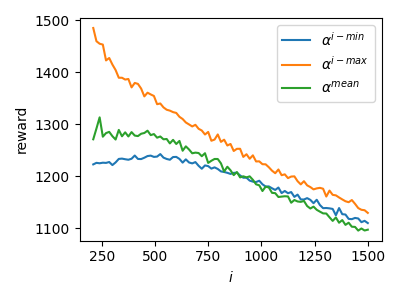
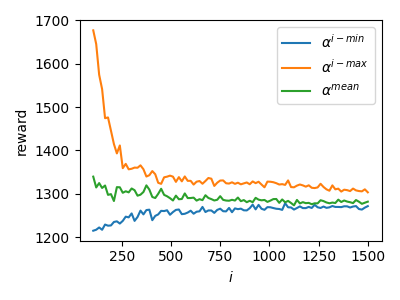
Update to my experiments' conclusion (+2 corrections)

diff --git a/QEST23/qest23.tex b/QEST23/qest23.tex
@@ -639,7 +639,7 @@ is based on considering the immediate cost of the next transition only.
 \centering
 \includegraphics[scale=0.5]{./Figures/minmaxmean2d+err.png}
 \caption{Cost values (y-axis) at selected states learned from partitions of granularities 5,10,20,50, (x-axis)
-and the $\alphaimin, \alphaimax, \alphamean$ adversaries\label{fig:minmax2d}}
+and the $\alphaimin, \alphaimax, \alphamean$ adversaries.\label{fig:minmax2d}}
 \end{figure}
 
 \begin{example}
@@ -668,7 +668,7 @@ runs, and the error bars indicate tha absolute minimum and maximum values obtain
 that there is very little variation from granularity $i=20$ onwards.
 
 Note that
-according Theorem~\ref{prop:narrowbounds} all  costfunctions converge to
+according Theorem~\ref{prop:narrowbounds} all  cost functions converge to
 the true cost $\expected(\costlambda,s)$ as $i\rightarrow\infty$.
 However, since $\alphaimin, \alphaimax$ only are approximations to the true min and max
 adversaries, there is no strict guarantee that the $\alphaimin$ and $\alphaimax$ costs always provide
@@ -806,52 +806,54 @@ for the $(0.9,0.9)$ region).
 
 
 \section{U{\small{PPAAL}} S{\small{TRATEGO}} Case Studies}
-We evaluate our method on two case-studies; the DC-DC boost converter\cite{dcdcconverter}
+We evaluate our method on two case studies: the DC-DC boost converter\cite{dcdcconverter}
 and the Bouncing Ball\cite{playball}.
 In either model, the controller acts at set time periods.
 In the DC-DC case, the aim is to control the internal circuitry such that the output voltage matches the 15V reference.
-The intergated absolute difference between actual output and the reference is thus the negative reward used.
-%The former is a model of a simple circuit to boost an input of 10V DC, under fluctuating consumption. 
-%A switch in the circuit must be toggled by a controller, to regulate the output voltage with the aim of keeping it close to the target (15V).
+The integrated absolute difference between the actual output and the reference is thus the negative reward used.
+%The former is a model of a simple circuit to boost an input of 10V DC, under fluctuating consumption.
+%A switch in the circuit must be toggled by a controller to regulate the output voltage with the aim of keeping it close to the target (15V).
 % Is integrated the right word to use here? It is the sum each time-step.
 %
 In the Bouncing Ball case, the aim is to maximize the integral of the height of the ball.
-%The latter models a ball which preserves a varying amount of energy when it impacts with the ground.
-A controller can add energy to the system by hitting the ball, but suffers a fixed cost per hit.
+%The latter models a ball that preserves a varying amount of energy when it impacts with the ground.
+A controller can add energy to the system by hitting the ball but suffers a fixed cost per hit.
 % Here too
 %The integrated height of the ball is used as the reward signal, while abstaining from hitting the ball
 %yields additional reward.
-%The both systems are expressed as IMDPs in the specification language of \uppaalstratego, 
-Using \uppaalstratego, models are created of IMDPs which correspond to the case studies, 
-with a partition $\partition_i$ such that there are $i$ regions along each axis. 
+%Both systems are expressed as IMDPs in the specification language of \uppaalstratego.
+Using \uppaalstratego, models are created of IMDPs that correspond to the case studies,
+with a partition $\partition_i$ such that there are $i$ regions along each axis. % TODO: Update the experiment so this is no longer the case
 %A strategy is learned using the region indices as reward signals.
-Additionally, an  adversary is implemented to select a state and reward from within the current region.
+Additionally, an adversary is implemented to select a state and reward from within the current region.
 
-We specifically study approximations of the $\alphaimin$, $\alphaimax$ and $\alphamean$ adversaries and construct these specific to the given case-study.
-For the Bouncing Ball, $\alphaimin$ picks the corner of a region 
-which has the lowest height, and the lowest absolute velocity. 
-For the DC-DC converter, the voltage furthest from the 15V target is picked. 
+We specifically study approximations of the $\alphaimin$, $\alphaimax$ and $\alphamean$ adversaries and 
+construct these specific to the given case study.
+For the Bouncing Ball, $\alphaimin$ picks the corner of a region
+that has the lowest height and the lowest absolute velocity.
+For the DC-DC converter, the voltage furthest from the 15V target is picked.
 The remaining state variables are the current and the consumption.
 These are picked on the assumption that a higher current will lead to a higher voltage in the next step,
 while a higher consumption will cause the voltage to drop.
-The $\alphamean$, is set to pick the center of the region, while $\alphaimax$ is picked analogously to $\alphaimin$ for the two cases.
+The $\alphamean$ is set to pick the center of the region, while $\alphaimax$ is picked analogously to $\alphaimin$
+for the two cases.
 
 \begin{figure}[t]
-  \begin{minipage}{0.45\linewidth}
-  \includegraphics[width=1\textwidth]{./Figures/BB.png}
-  \end{minipage}
-  \begin{minipage}{0.45\linewidth}
-  \includegraphics[width=1\textwidth]{./Figures/DC.png}
-  \end{minipage}
-  \caption{Cost values of the initial state of the Bouncing Ball (left) and the DC-DC converter (right)}
-  \label{fig:casestudies}
+\begin{minipage}{0.45\linewidth}
+\includegraphics[width=1\textwidth]{./Figures/BB.png}
+\end{minipage}
+\begin{minipage}{0.45\linewidth}
+\includegraphics[width=1\textwidth]{./Figures/DC.png}
+\end{minipage}
+\caption{Cost values of the initial state of the Bouncing Ball (left) and the DC-DC converter (right)}
+\label{fig:casestudies}
 \end{figure}
 
 Figure~\ref{fig:casestudies} shows the expected reward of the initial state of an agent trained on a fixed budget
-on IMDPs of varying granularity $i$.
-We observe that for both agents the adversary modeled as $\alphaimin$ generally acts as 
-the lower bound of training outcomes, while $\alphaimax$ provides the upper bound, 
-with the uniformly sampled adversary providing outcomes that lay between them.
+on IMDPs of varying partition size, given by $i$.
+Similar to Figure~\ref{fig:minmax2d}, the adversaries $\alphaimin$ and $\alphaimax$ provide
+approximate bounds to the learning outcomes.
+These bounds grow closer at finer granularities, where the IMDP better approximates the true model.
 
 
 

diff --git a/make_plots.py b/make_plots.py
@@ -66,7 +66,7 @@ def plot_learning_rates_BB(df, AP, AV):
 
 def plot_agents_BB(df, R):
     fig, ax = plt.subplots()
-    df = df[df["GP"] > 200]
+    df = df[df["GP"] > 100]
     #ax.set_yscale('log')
     fig.set_figheight(3)
     fig.set_figwidth(4)
@@ -111,7 +111,7 @@ def plot_agents_BB(df, R):
 
 def plot_agents_DC(df, R):
     fig, ax = plt.subplots()
-    df = df[df["GV"] > 200]
+    df = df[df["GV"] > 100]
     #ax.set_yscale('log')
     fig.set_figheight(3)
     fig.set_figwidth(4)
